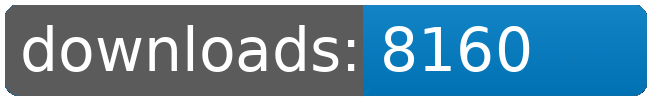
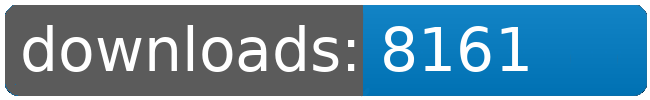
dl log written

Changed region(s): [[0.7692, 0.24, 0.8308, 0.72]]

diff --git a/README.md b/README.md
@@ -4,113 +4,113 @@
 <table>
 	<tr>
 		<td></td>
-		<td>2026-07-21</td>
 		<td>2026-07-22</td>
 		<td>2026-07-23</td>
 		<td>2026-07-24</td>
 		<td>2026-07-25</td>
 		<td>2026-07-26</td>
 		<td>2026-07-27</td>
+		<td>2026-07-28</td>
 		<td>today +</td>
 	</tr>
 	<tr>
 		<td>Bunsen.Burner</td>
-		<td>7681</td>
 		<td>7695</td>
 		<td>7709</td>
 		<td>7723</td>
 		<td>7738</td>
 		<td>7755</td>
 		<td>7767</td>
-		<td>+ 12</td>
+		<td>7767</td>
+		<td></td>
 	</tr>
 	<tr>
 		<td>Factory.Outlets</td>
-		<td>6763</td>
 		<td>6777</td>
 		<td>6794</td>
 		<td>6809</td>
 		<td>6824</td>
 		<td>6840</td>
 		<td>6854</td>
-		<td>+ 14</td>
+		<td>6855</td>
+		<td>+ 1</td>
 	</tr>
 	<tr>
 		<td>Fundamental.Outfit.Expansion</td>
-		<td>8063</td>
 		<td>8076</td>
 		<td>8094</td>
 		<td>8110</td>
 		<td>8128</td>
 		<td>8144</td>
 		<td>8160</td>
-		<td>+ 16</td>
+		<td>8161</td>
+		<td>+ 1</td>
 	</tr>
 	<tr>
 		<td>Jaws</td>
-		<td>6597</td>
 		<td>6613</td>
 		<td>6627</td>
 		<td>6641</td>
 		<td>6656</td>
 		<td>6672</td>
 		<td>6685</td>
-		<td>+ 13</td>
+		<td>6685</td>
+		<td></td>
 	</tr>
 	<tr>
 		<td>Korunak.Defense.Drones</td>
-		<td>6818</td>
 		<td>6833</td>
 		<td>6847</td>
 		<td>6861</td>
 		<td>6876</td>
 		<td>6892</td>
 		<td>6905</td>
-		<td>+ 13</td>
+		<td>6905</td>
+		<td></td>
 	</tr>
 	<tr>
 		<td>Louise.Conglomerate.Shipyards</td>
-		<td>7460</td>
 		<td>7474</td>
 		<td>7490</td>
 		<td>7506</td>
 		<td>7521</td>
 		<td>7539</td>
 		<td>7553</td>
-		<td>+ 14</td>
+		<td>7553</td>
+		<td></td>
 	</tr>
 	<tr>
 		<td>Sheragi.Rebirth.Redux</td>
-		<td>63</td>
 		<td>63</td>
 		<td>64</td>
 		<td>65</td>
 		<td>65</td>
 		<td>66</td>
 		<td>66</td>
+		<td>66</td>
 		<td></td>
 	</tr>
 	<tr>
 		<td>Solar.Sails</td>
-		<td>6724</td>
 		<td>6738</td>
 		<td>6752</td>
 		<td>6766</td>
 		<td>6781</td>
 		<td>6795</td>
 		<td>6808</td>
-		<td>+ 13</td>
+		<td>6808</td>
+		<td></td>
 	</tr>
 	<tr>
 		<td>Zone.of.Control</td>
-		<td>6545</td>
 		<td>6559</td>
 		<td>6573</td>
 		<td>6586</td>
 		<td>6601</td>
 		<td>6617</td>
 		<td>6630</td>
-		<td>+ 13</td>
+		<td>6630</td>
+		<td></td>
 	</tr>
 	<tr>
 		<td></td>
@@ -120,8 +120,8 @@
 		<td></td>
 		<td></td>
 		<td></td>
-		<td>57428</td>
-		<td>108</td>
+		<td>57430</td>
+		<td>2</td>
 	</tr>
 </table>
 </sub></sup>
@@ -129,112 +129,112 @@
 <table>
 	<tr>
 		<td></td>
-		<td>2026-07-21</td>
 		<td>2026-07-22</td>
 		<td>2026-07-23</td>
 		<td>2026-07-24</td>
 		<td>2026-07-25</td>
 		<td>2026-07-26</td>
 		<td>2026-07-27</td>
+		<td>2026-07-28</td>
 		<td>today +</td>
 	</tr>
 	<tr>
 		<td>Fundamental.Outfit.Expansion</td>
-		<td>8063</td>
 		<td>8076</td>
 		<td>8094</td>
 		<td>8110</td>
 		<td>8128</td>
 		<td>8144</td>
 		<td>8160</td>
-		<td>+ 16</td>
+		<td>8161</td>
+		<td>+ 1</td>
 	</tr>
 	<tr>
 		<td>Bunsen.Burner</td>
-		<td>7681</td>
 		<td>7695</td>
 		<td>7709</td>
 		<td>7723</td>
 		<td>7738</td>
 		<td>7755</td>
 		<td>7767</td>
-		<td>+ 12</td>
+		<td>7767</td>
+		<td></td>
 	</tr>
 	<tr>
 		<td>Louise.Conglomerate.Shipyards</td>
-		<td>7460</td>
 		<td>7474</td>
 		<td>7490</td>
 		<td>7506</td>
 		<td>7521</td>
 		<td>7539</td>
 		<td>7553</td>
-		<td>+ 14</td>
+		<td>7553</td>
+		<td></td>
 	</tr>
 	<tr>
 		<td>Korunak.Defense.Drones</td>
-		<td>6818</td>
 		<td>6833</td>
 		<td>6847</td>
 		<td>6861</td>
 		<td>6876</td>
 		<td>6892</td>
 		<td>6905</td>
-		<td>+ 13</td>
+		<td>6905</td>
+		<td></td>
 	</tr>
 	<tr>
 		<td>Factory.Outlets</td>
-		<td>6763</td>
 		<td>6777</td>
 		<td>6794</td>
 		<td>6809</td>
 		<td>6824</td>
 		<td>6840</td>
 		<td>6854</td>
-		<td>+ 14</td>
+		<td>6855</td>
+		<td>+ 1</td>
 	</tr>
 	<tr>
 		<td>Solar.Sails</td>
-		<td>6724</td>
 		<td>6738</td>
 		<td>6752</td>
 		<td>6766</td>
 		<td>6781</td>
 		<td>6795</td>
 		<td>6808</td>
-		<td>+ 13</td>
+		<td>6808</td>
+		<td></td>
 	</tr>
 	<tr>
 		<td>Jaws</td>
-		<td>6597</td>
 		<td>6613</td>
 		<td>6627</td>
 		<td>6641</td>
 		<td>6656</td>
 		<td>6672</td>
 		<td>6685</td>
-		<td>+ 13</td>
+		<td>6685</td>
+		<td></td>
 	</tr>
 	<tr>
 		<td>Zone.of.Control</td>
-		<td>6545</td>
 		<td>6559</td>
 		<td>6573</td>
 		<td>6586</td>
 		<td>6601</td>
 		<td>6617</td>
 		<td>6630</td>
-		<td>+ 13</td>
+		<td>6630</td>
+		<td></td>
 	</tr>
 	<tr>
 		<td>Sheragi.Rebirth.Redux</td>
-		<td>63</td>
 		<td>63</td>
 		<td>64</td>
 		<td>65</td>
 		<td>65</td>
 		<td>66</td>
 		<td>66</td>
+		<td>66</td>
 		<td></td>
 	</tr>
 	<tr>
@@ -245,8 +245,8 @@
 		<td></td>
 		<td></td>
 		<td></td>
-		<td>57428</td>
-		<td>108</td>
+		<td>57430</td>
+		<td>2</td>
 	</tr>
 </table>
 </sub></sup>
@@ -313,9 +313,9 @@
 		<td></td>
 	</tr>
 	<tr>
-		<td>287</td>
-		<td>21.60</td>
-		<td>6.60</td>
+		<td>288</td>
+		<td>21.52</td>
+		<td>6.57</td>
 		<td></td>
 		<td></td>
 	</tr>
